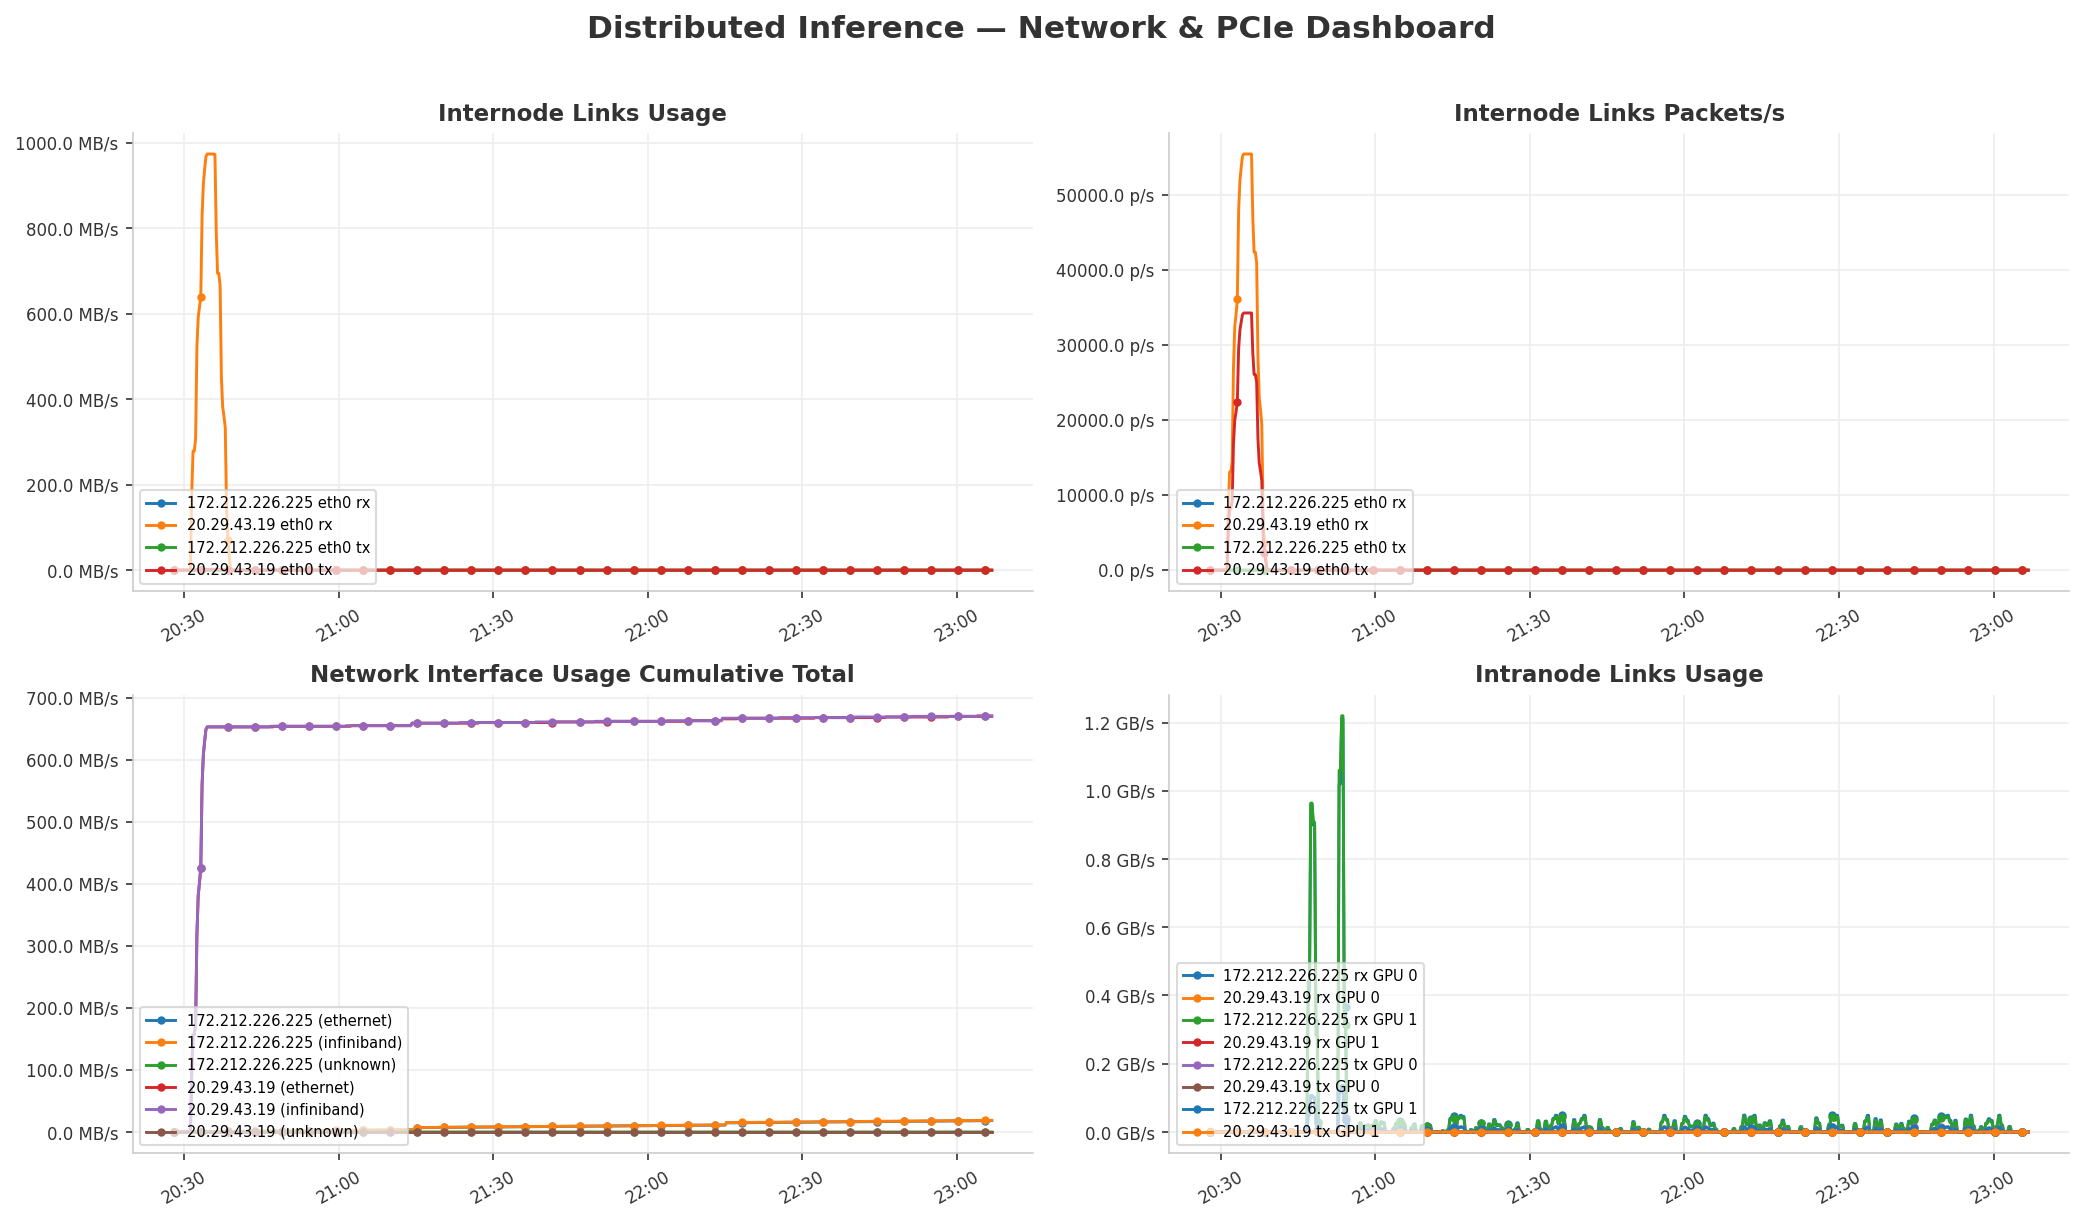
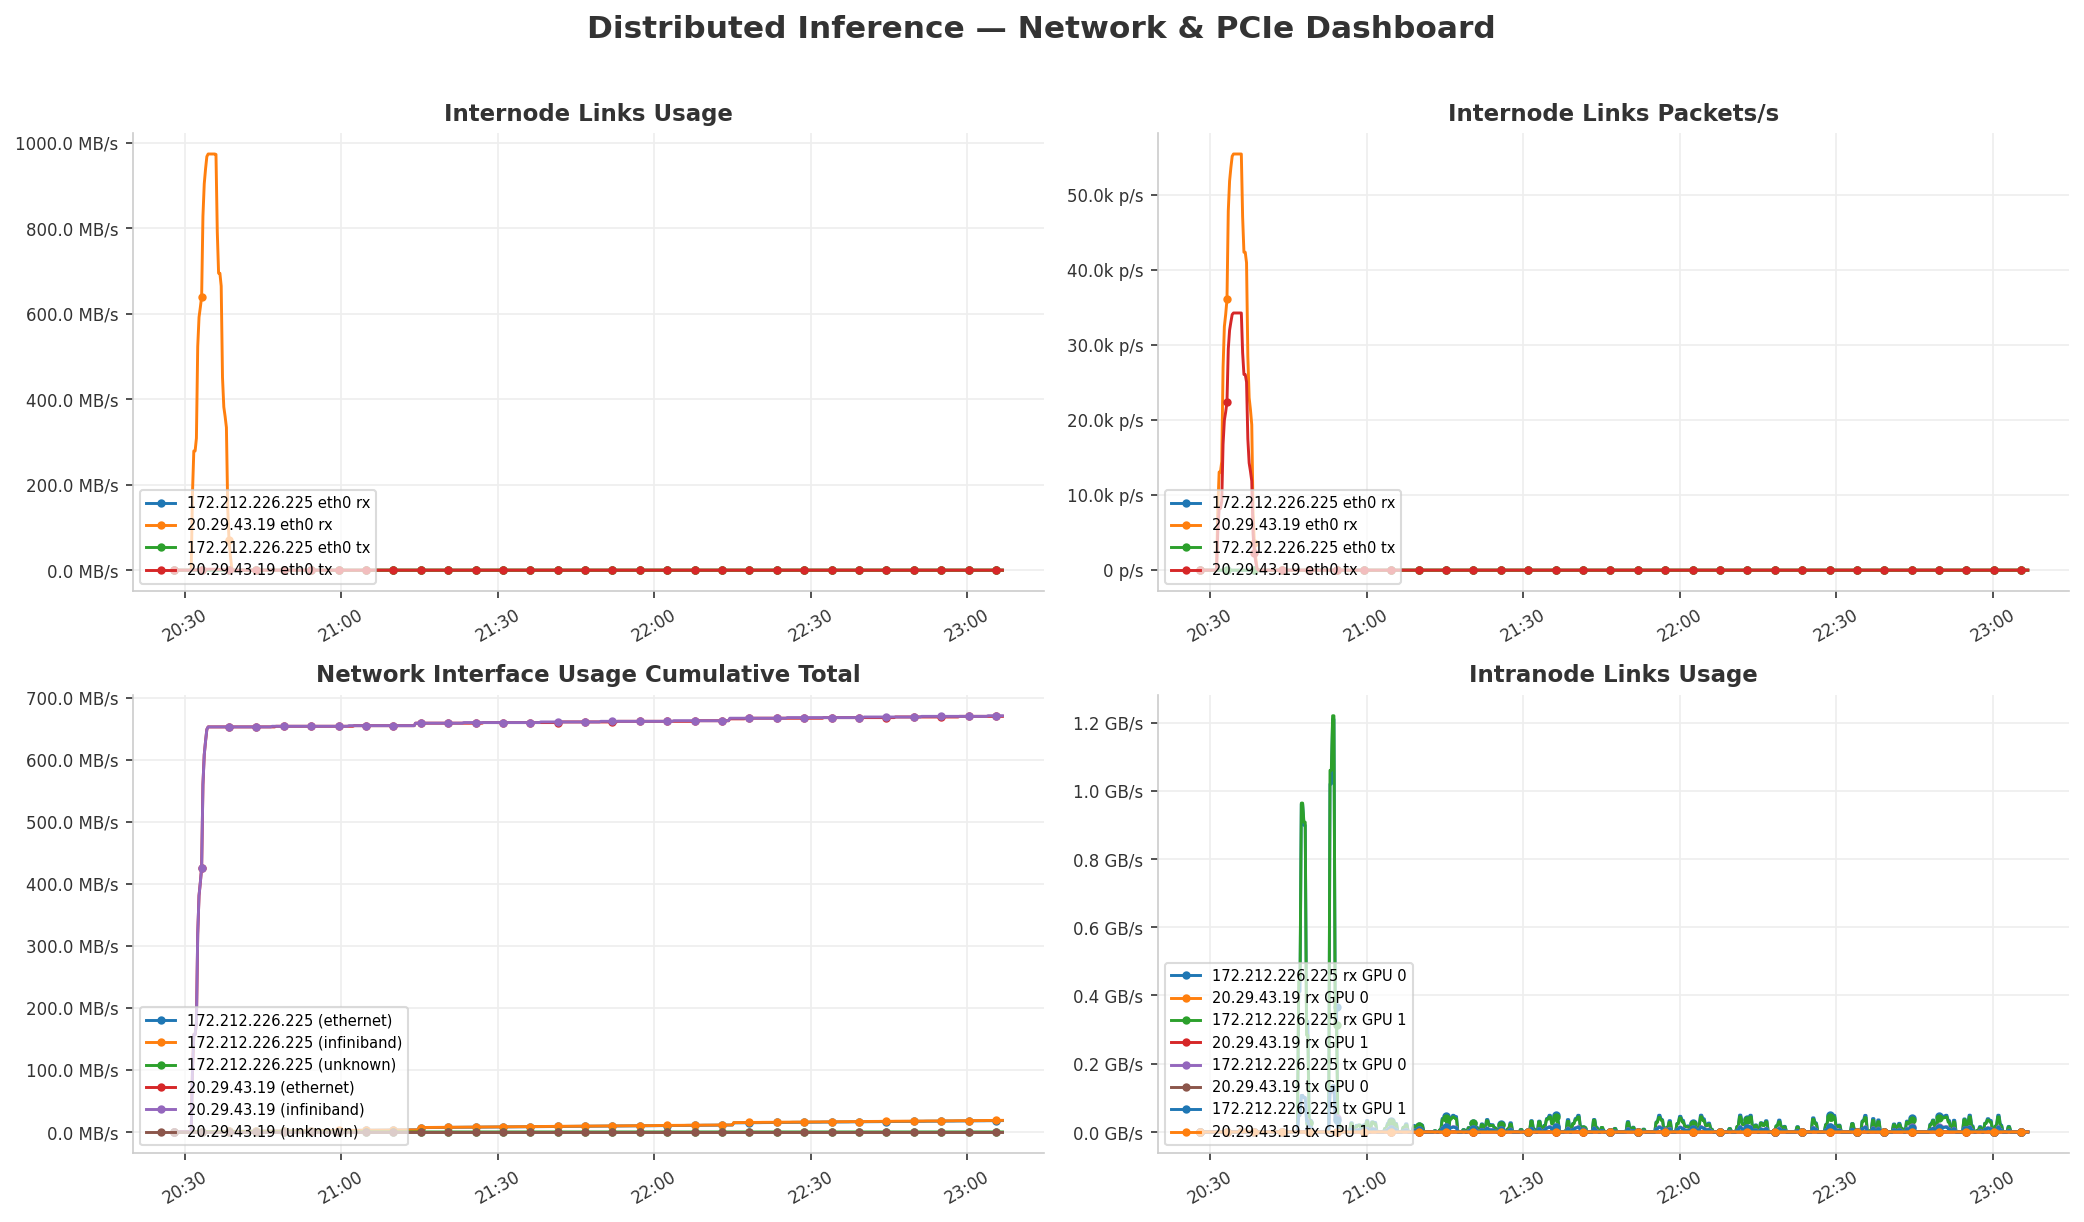
improve comparison plot: rename labels, reorder panels, add bandwidth limit annotations
- Rename "distributed inference" legend to "Inference", update panel titles
  to Internode Bytes Sent / Internode Packets Sent / Internode Cumulative
  Bytes Sent / Intranode Bytes Sent
- Move Intranode panel below Internode Bytes for better layout
- Update title to "Distributed Inference vs Training Communication — Single Node View"
- Replace geometric-mean threshold with bandwidth limit at 1/100th of
  median training value; annotate with auto-scaled value on right edge
- Add smart rounding: whole number if <10, ceil to nearest 10 otherwise
- Generate standalone internode_bytes.png single-panel plot

diff --git a/scripts/analysis/plot_dashboard.py b/scripts/analysis/plot_dashboard.py
@@ -9,6 +9,7 @@ Outputs:
     results/distributed inference/dashboard.png
 """
 
+import math
 import numpy as np
 import fnmatch
 import re
@@ -94,8 +95,20 @@ def bytes_formatter(ax_max):
     return fmt
 
 
+def _fmt_num(val: float) -> str:
+    """Format a scaled numeric value: round to nearest whole if <10, else ceil to nearest 10."""
+    if val < 10:
+        return str(round(val))
+    else:
+        return str(math.ceil(val / 10) * 10)
+
+
 def packets_formatter(val, _pos):
-    return f"{val:.1f} p/s"
+    if val >= 1e6:
+        return f"{val/1e6:.1f}M p/s"
+    elif val >= 1e3:
+        return f"{val/1e3:.1f}k p/s"
+    return f"{int(val)} p/s"
 
 
 # Map filename-pattern keywords to panel metadata
@@ -249,14 +262,14 @@ def plot_comparison(inf_folder: Path, train_folder: Path, output_path: Path) -> 
     # "network interface usage total" exports cumulative byte counters, so differentiate=True
     # converts them to instantaneous rates before plotting.
     panels = [
-        ("Ethernet*Bytes*",    "Ethernet — Bytes/s",
+        ("Ethernet*Bytes*",    "Internode Bytes Sent",
          "bytes",   True,  False, False, False, "GB/s"),
-        ("Ethernet*Packets*",  "Ethernet — Packets/s",
+        ("Ethernet*Packets*",  "Internode Packets Sent",
          "packets", True,  False, False, False, None),
-        ("network interface*", "Network Interface Usage Cumulative Total",
-         "bytes",   False, True,  False, True,  "GB"),
-        ("PCIe*",              "PCIe Stats",
+        ("PCIe*",              "Intranode Bytes Sent",
          "bytes",   True,  False, False, False, None),
+        ("network interface*", "Internode Cumulative Bytes Sent",
+         "bytes",   True,  True,  False, True,  "GB"),
     ]
 
     # Clip both runs to the shorter duration so x-axes align.
@@ -276,24 +289,37 @@ def plot_comparison(inf_folder: Path, train_folder: Path, output_path: Path) -> 
 
         ax.set_facecolor("white")
         ax.plot(t_inf, v_inf, color=INF_COLOR,
-                linewidth=1.6, label="Distributed Inference")
+                linewidth=1.6, label="Inference")
         ax.plot(t_train, v_train, color=TRAIN_COLOR,
                 linewidth=1.6, label="Training")
 
         if add_threshold:
-            med_inf = float(np.median(v_inf[v_inf > 0])) if (
-                v_inf > 0).any() else 0
             med_train = float(np.median(v_train[v_train > 0])) if (
                 v_train > 0).any() else 0
-            if med_inf > 0 and med_train > 0:
-                thresh = float(np.sqrt(med_inf * med_train))
+            if med_train > 0:
+                thresh = med_train / 100
+                if unit_type == "packets":
+                    if thresh >= 1e6:
+                        thresh_str = f"{_fmt_num(thresh/1e6)}M p/s"
+                    elif thresh >= 1e3:
+                        thresh_str = f"{_fmt_num(thresh/1e3)}k p/s"
+                    else:
+                        thresh_str = f"{_fmt_num(thresh)} p/s"
+                elif thresh >= 1e9:
+                    thresh_str = f"{_fmt_num(thresh/1e9)} GB/s"
+                elif thresh >= 1e6:
+                    thresh_str = f"{_fmt_num(thresh/1e6)} MB/s"
+                elif thresh >= 1e3:
+                    thresh_str = f"{_fmt_num(thresh/1e3)} kB/s"
+                else:
+                    thresh_str = f"{_fmt_num(thresh)} B/s"
                 ax.axhline(thresh, color=THRESH_COLOR,
                            linewidth=1.2, linestyle="--", zorder=0)
-                x_text = 0.02 * max_t
                 ax.text(
-                    x_text, thresh,
-                    "training threshold",
-                    color=THRESH_COLOR, fontsize=8, va="bottom", ha="left",
+                    1.0, thresh,
+                    f"bandwidth limit ({thresh_str})",
+                    color=THRESH_COLOR, fontsize=8, va="bottom", ha="right",
+                    transform=ax.get_yaxis_transform(),
                 )
 
         ax.set_title(panel_title, fontsize=11,
@@ -327,12 +353,71 @@ def plot_comparison(inf_folder: Path, train_folder: Path, output_path: Path) -> 
         ax.grid(True, color="#eeeeee", linewidth=0.8)
 
     fig.suptitle(
-        "Distributed Inference vs Training — Network & PCIe",
+        "Distributed Inference vs Training Communication — Single Node View",
         fontsize=14,
         fontweight="bold",
         color="#333333",
         y=1.01,
     )
+    fig.tight_layout()
+    fig.savefig(output_path, dpi=150, bbox_inches="tight", facecolor="white")
+    plt.close(fig)
+    print(f"Saved: {output_path}")
+
+
+def plot_internode_bytes(inf_folder: Path, train_folder: Path, output_path: Path) -> None:
+    INF_COLOR = "#1f77b4"
+    TRAIN_COLOR = "#d62728"
+    THRESH_COLOR = "#888888"
+
+    pattern, panel_title, unit_type, add_threshold, log_scale, diff, use_sum, force_unit = (
+        "Ethernet*Bytes*", "Internode Bytes Sent", "bytes", True, False, False, False, "GB/s"
+    )
+
+    t_inf_end = load_and_aggregate(inf_folder, pattern)[0][-1]
+    t_train_end = load_and_aggregate(train_folder, pattern)[0][-1]
+    max_t = min(t_inf_end, t_train_end)
+
+    t_inf, v_inf = load_and_aggregate(inf_folder, pattern, max_minutes=max_t)
+    t_train, v_train = load_and_aggregate(train_folder, pattern, max_minutes=max_t)
+
+    fig, ax = plt.subplots(figsize=(8, 5))
+    fig.patch.set_facecolor("white")
+    ax.set_facecolor("white")
+
+    ax.plot(t_inf, v_inf, color=INF_COLOR, linewidth=1.6, label="Inference")
+    ax.plot(t_train, v_train, color=TRAIN_COLOR, linewidth=1.6, label="Training")
+
+    if add_threshold:
+        med_train = float(np.median(v_train[v_train > 0])) if (v_train > 0).any() else 0
+        if med_train > 0:
+            thresh = med_train / 100
+            if thresh >= 1e9:
+                thresh_str = f"{_fmt_num(thresh/1e9)} GB/s"
+            elif thresh >= 1e6:
+                thresh_str = f"{_fmt_num(thresh/1e6)} MB/s"
+            elif thresh >= 1e3:
+                thresh_str = f"{_fmt_num(thresh/1e3)} kB/s"
+            else:
+                thresh_str = f"{_fmt_num(thresh)} B/s"
+            ax.axhline(thresh, color=THRESH_COLOR, linewidth=1.2, linestyle="--", zorder=0)
+            ax.text(
+                1.0, thresh,
+                f"bandwidth limit ({thresh_str})",
+                color=THRESH_COLOR, fontsize=8, va="bottom", ha="right",
+                transform=ax.get_yaxis_transform(),
+            )
+
+    ax.set_title(panel_title, fontsize=12, fontweight="bold", color="#333333", pad=8)
+    ax.set_xlabel("Elapsed time (min)", fontsize=9, color="#333333")
+    ax.tick_params(axis="x", labelsize=8, colors="#333333")
+    ax.tick_params(axis="y", labelsize=8, colors="#333333")
+    ax.yaxis.set_major_formatter(ticker.FuncFormatter(lambda v, _: f"{v/1e9:.2f} GB/s"))
+    ax.legend(loc="upper left", fontsize=9, framealpha=0.7, edgecolor="#cccccc")
+    ax.spines[["top", "right"]].set_visible(False)
+    ax.spines[["left", "bottom"]].set_color("#cccccc")
+    ax.grid(True, color="#eeeeee", linewidth=0.8)
+
     fig.tight_layout()
     fig.savefig(output_path, dpi=150, bbox_inches="tight", facecolor="white")
     plt.close(fig)
@@ -347,4 +432,10 @@ if __name__ == "__main__":
         RESULTS / "distributed inference",
         RESULTS / "training",
         RESULTS / "comparison.png",
+    )
+
+    plot_internode_bytes(
+        RESULTS / "distributed inference",
+        RESULTS / "training",
+        RESULTS / "internode_bytes.png",
     )
